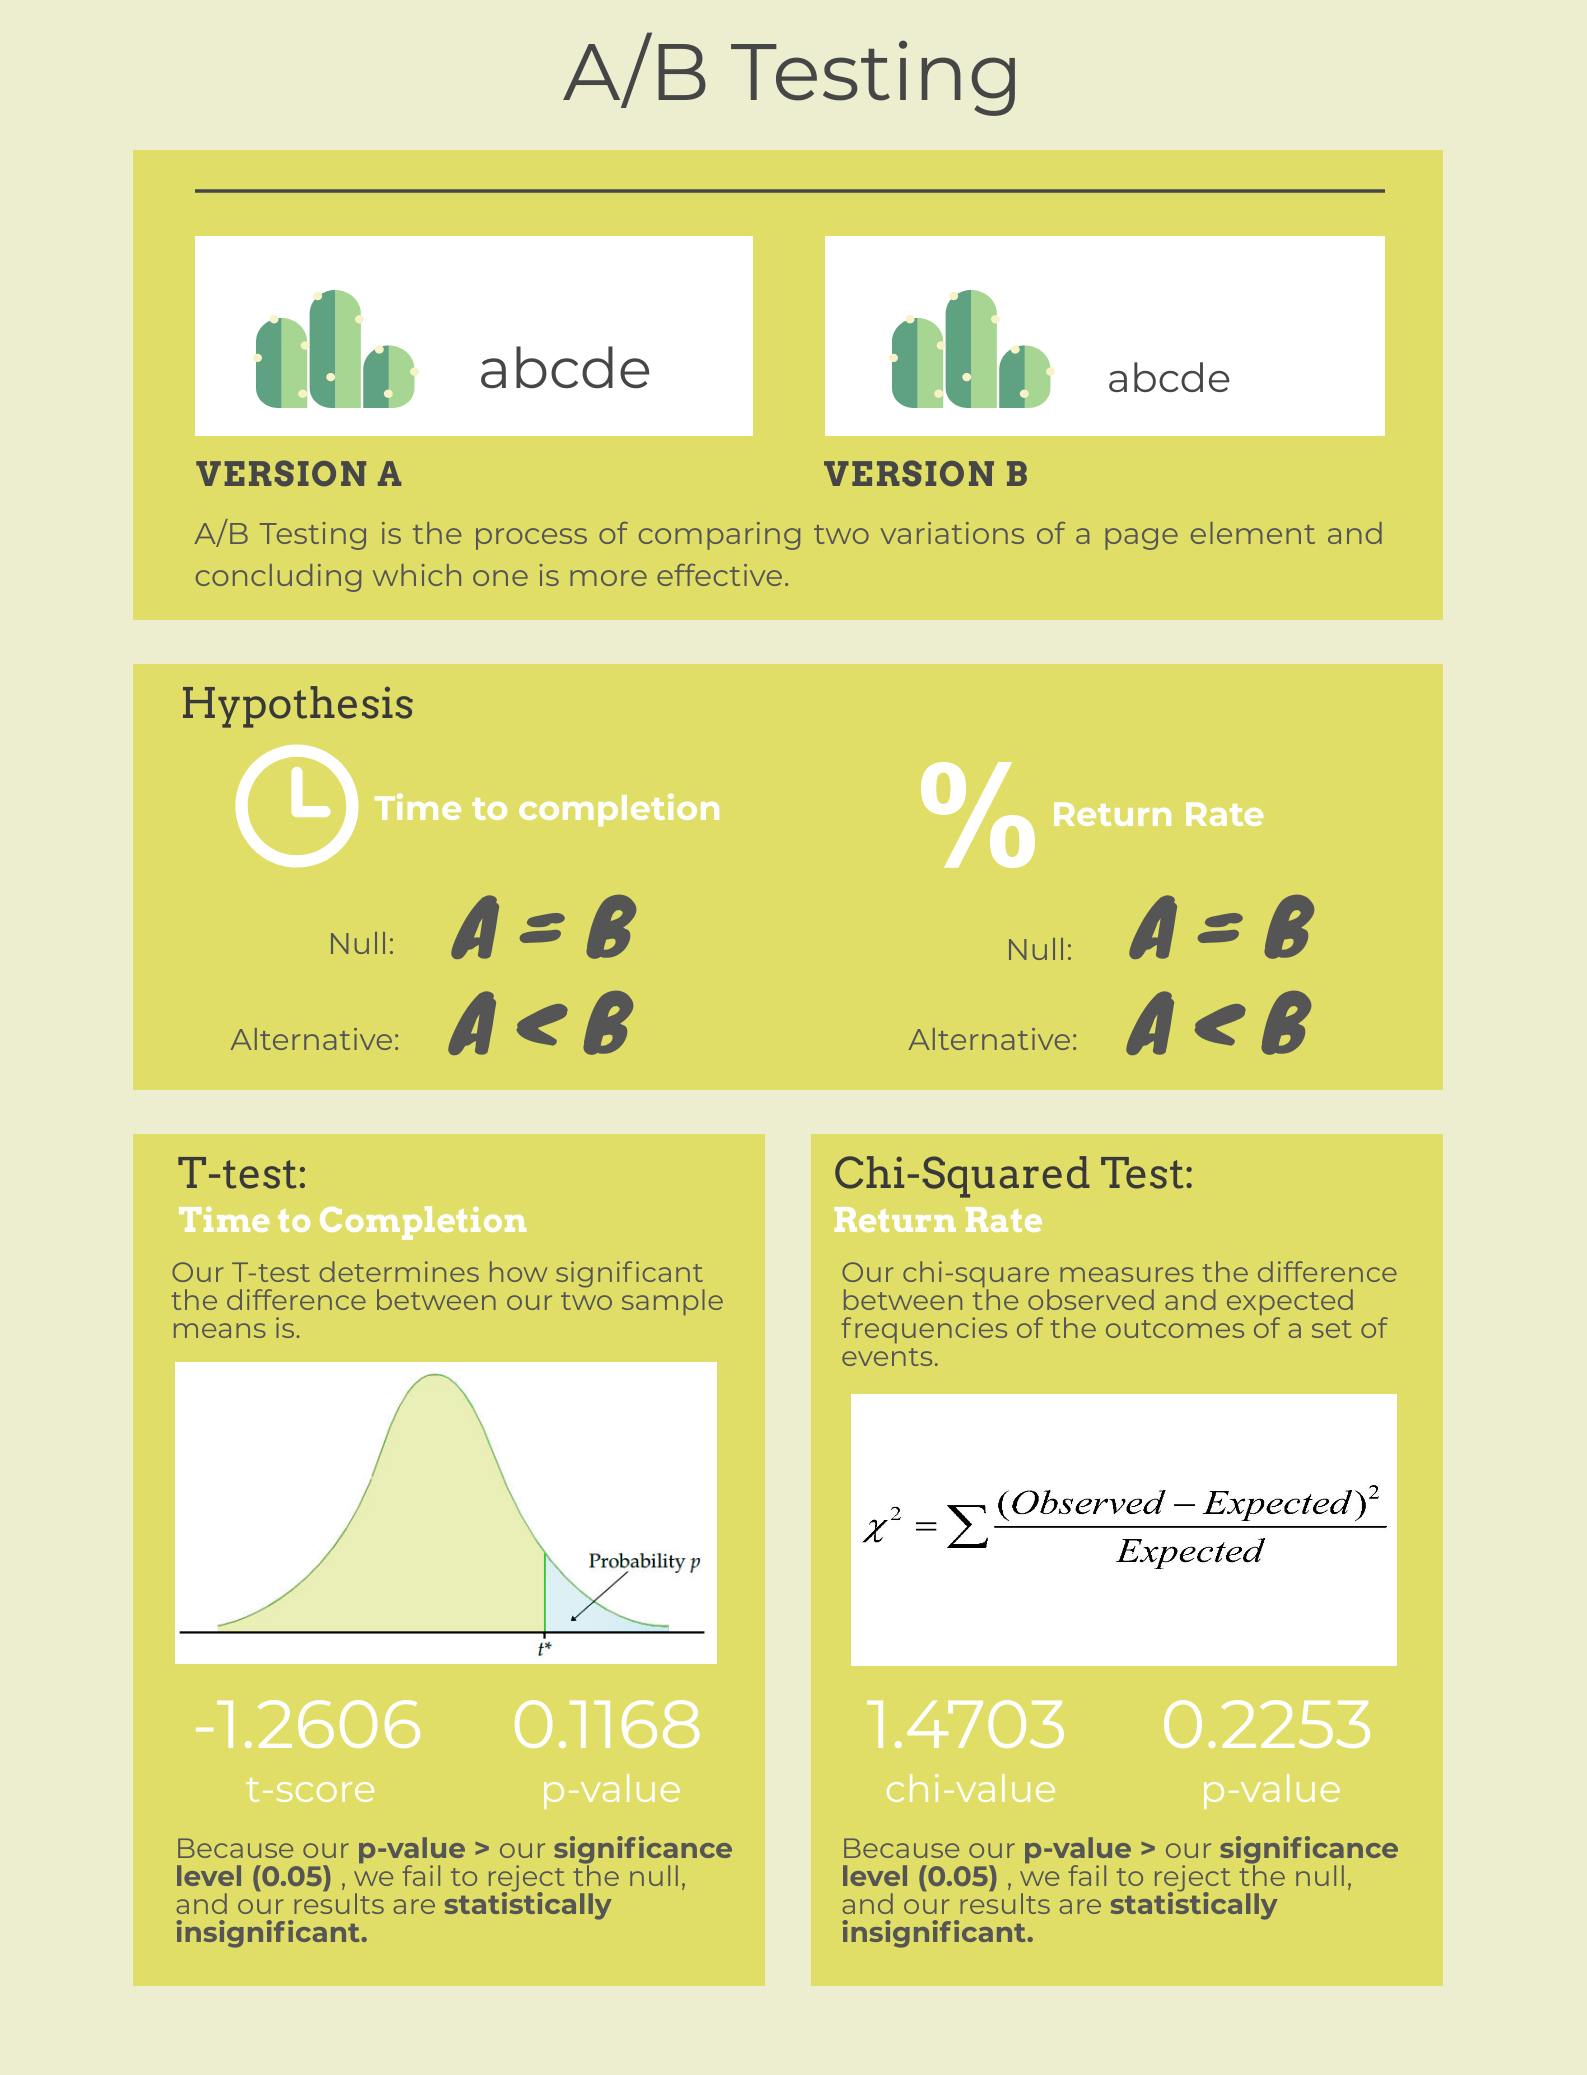
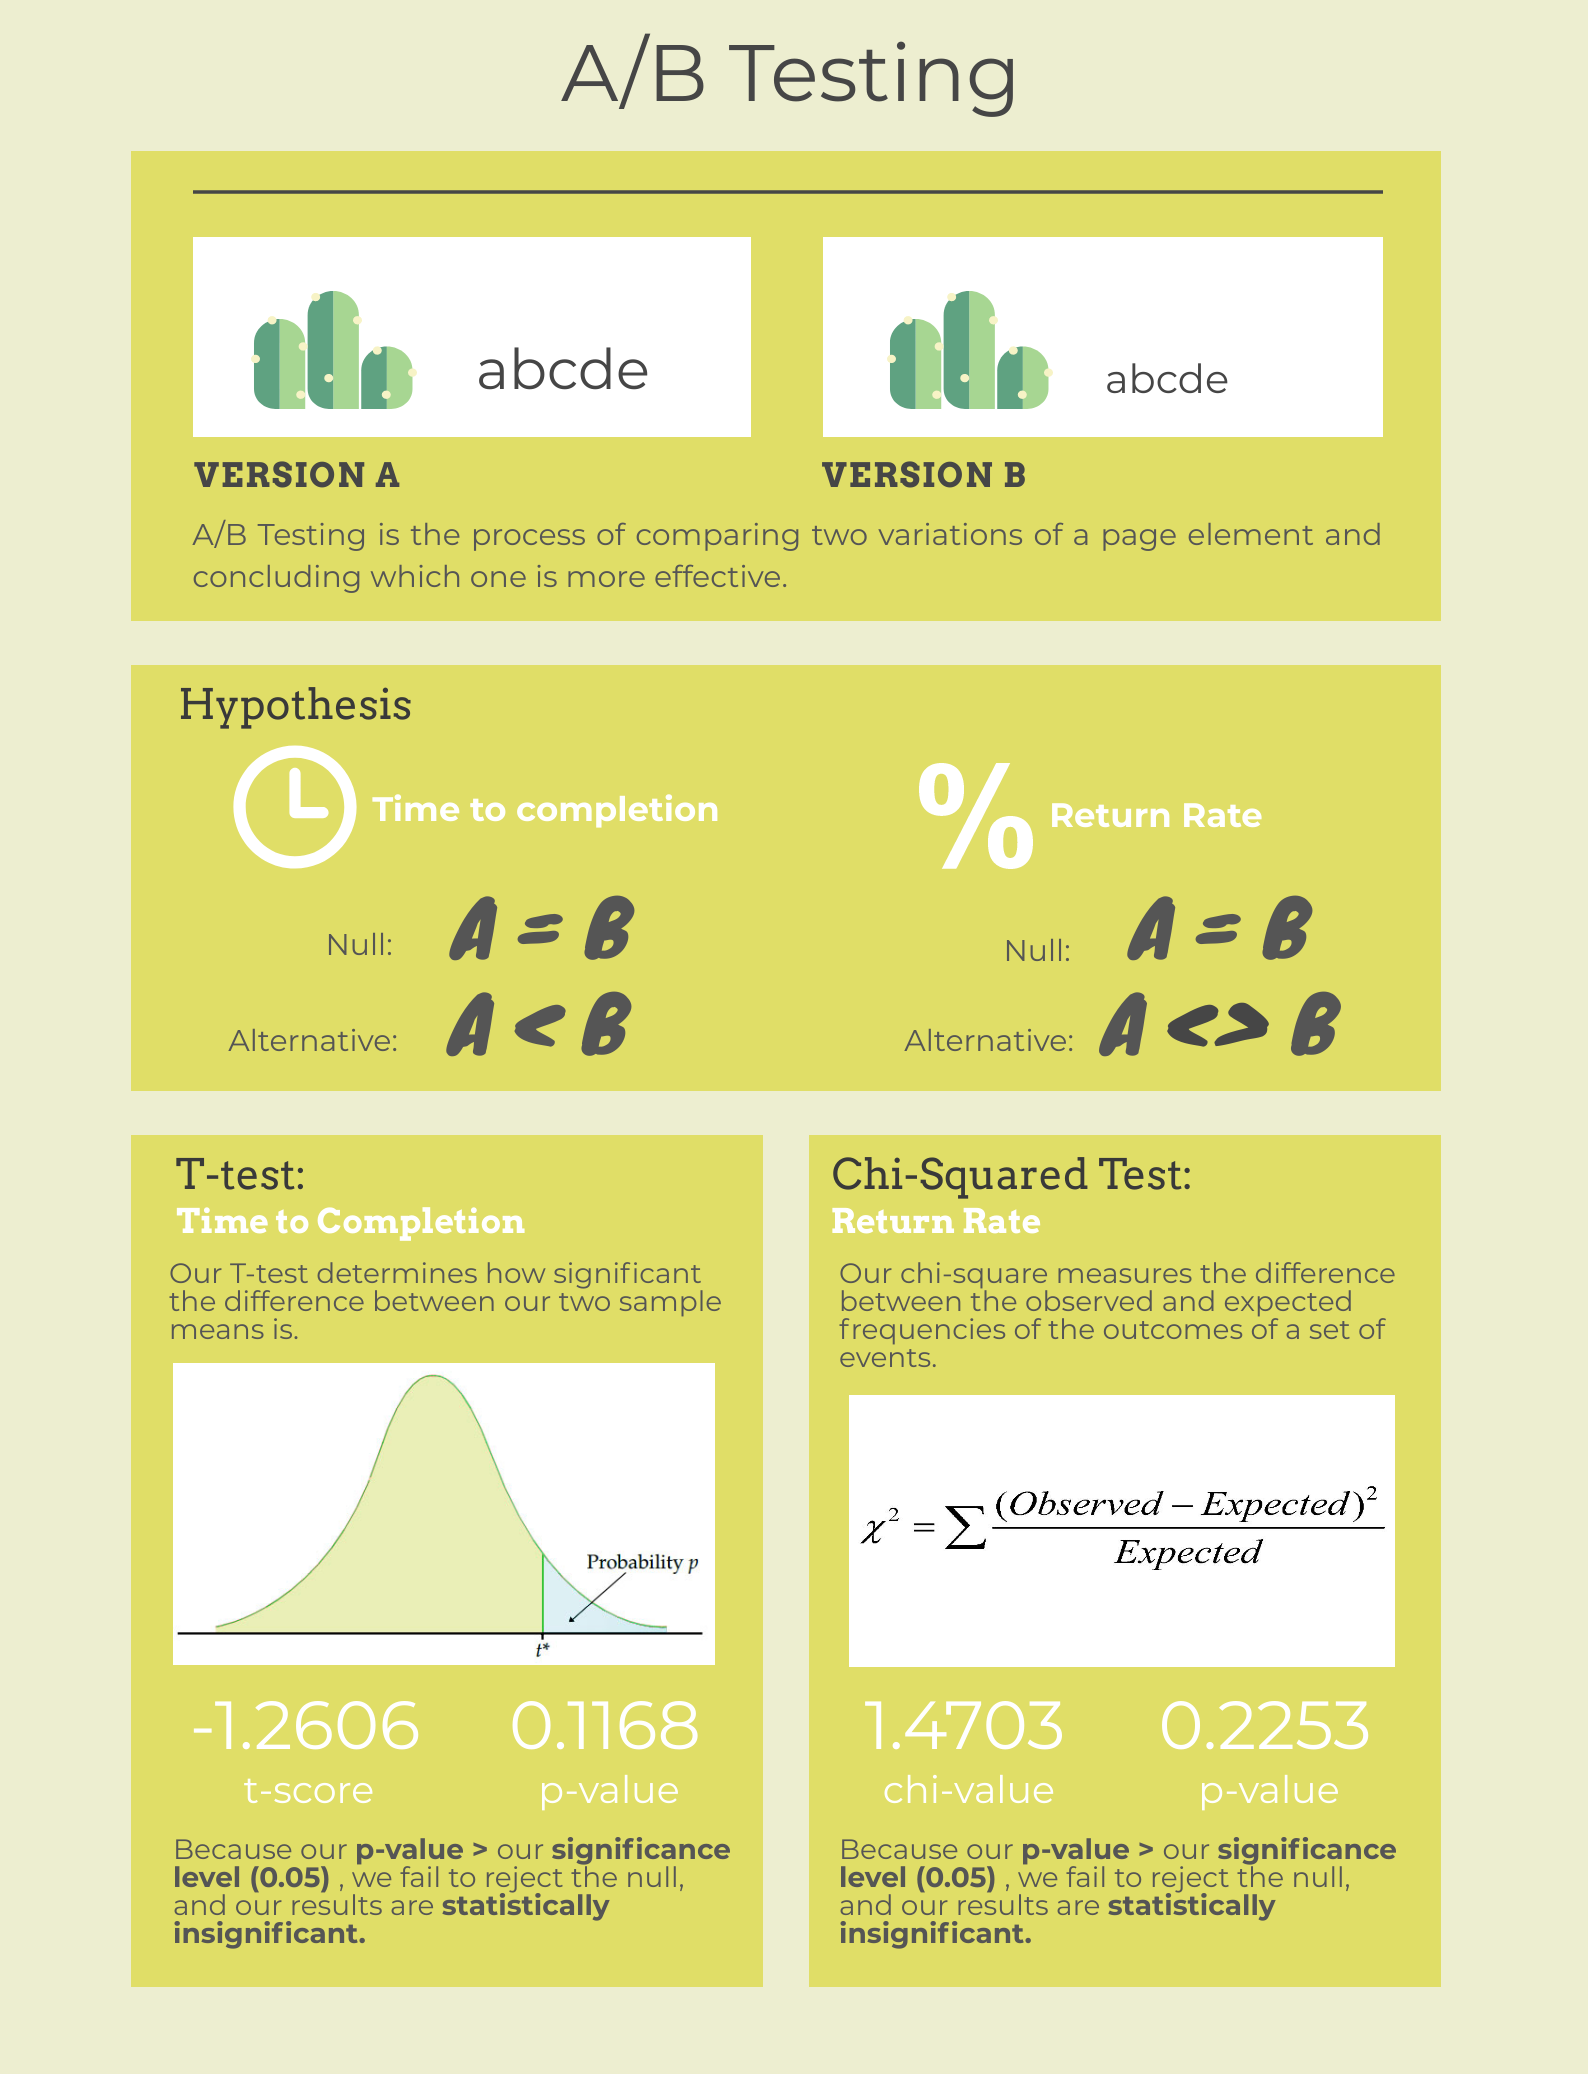
changed hypothesis

diff --git a/home.html b/home.html
@@ -84,7 +84,8 @@
       <ul>
       <li>Null: the return rate in version A equals the return rate in version B. </li>
       <br>
-      <li>Alternative: version A will have a lower return rate than version B because version's A font size is larger and therefore increases visibility.</li>
+      <li>Alternative: version A's return rate will not equal B's return rate  because version's A font size is larger and therefore has a better visibility
+        (which would make version A have a lower return rate).</li>
       </ul> 
     </div>
 
@@ -142,7 +143,7 @@
     <div class="paragraph">
       <br>
       The logs also provide information about whether or not a user returned to the homepage after going to the checkout page. We 
-      want a low return rate because if the user does not need to return to the homepage after going to checkout, it means that it
+      prefer a low return rate because if the user does not need to return to the homepage after going to checkout, it means that it
       was easy and clear for them to complete the task effectively on the first try. 
       <br>
       <br>
@@ -169,9 +170,10 @@
     </table>
     <div class="paragraph">
       <br>
-      On first sight, it looks like version A has a lower return rate than version B. Nonetheless, I ran a Chi-Squared test and obtained
+      On first sight, it looks like version A has a lower return rate than version B (or that they have different return rates and thus, 
+      our alternative hypothesis is true). Nonetheless, I ran a Chi-Squared test and obtained
       a Chi-Squared value of 1.470 and a p-value of 0.225. Again, because my p-value is less than my significance level of 5%, I failed to reject the 
-      null hypothesis. Thus, my results are statistically insignificant, and I cannot conclude that version A has a lower return rate than version B.
+      null hypothesis. Thus, my results are statistically insignificant, and I cannot conclude that version A has a different return rate than version B.
     </div>
 
     <!--Infographic-->
